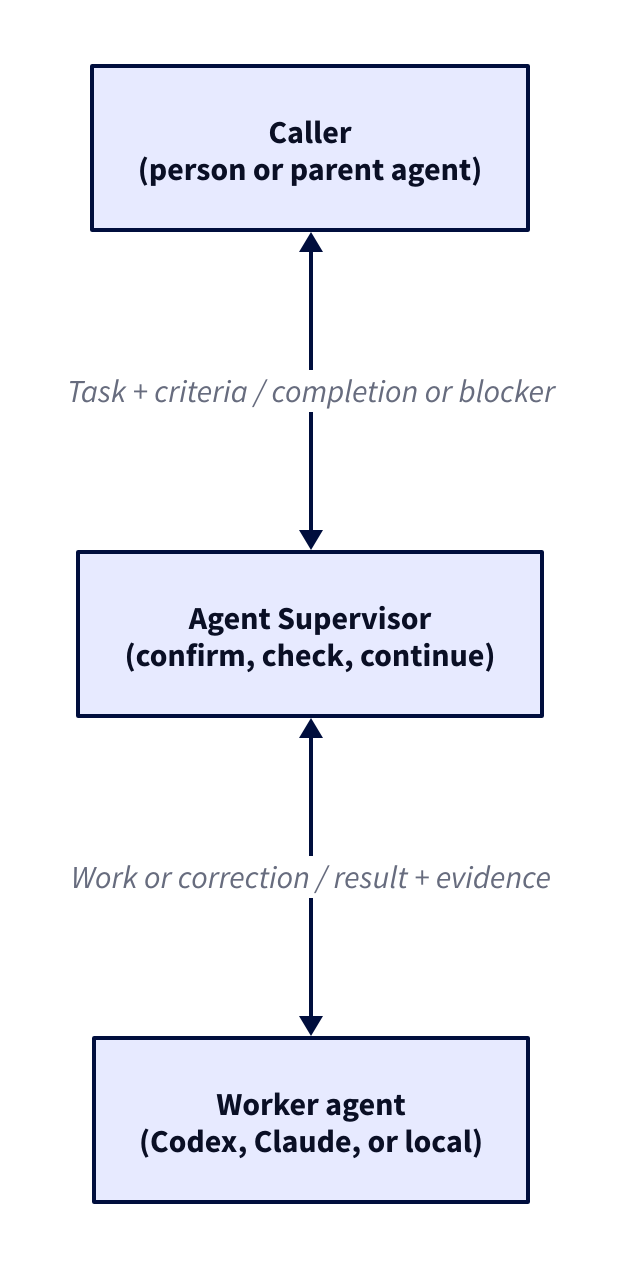
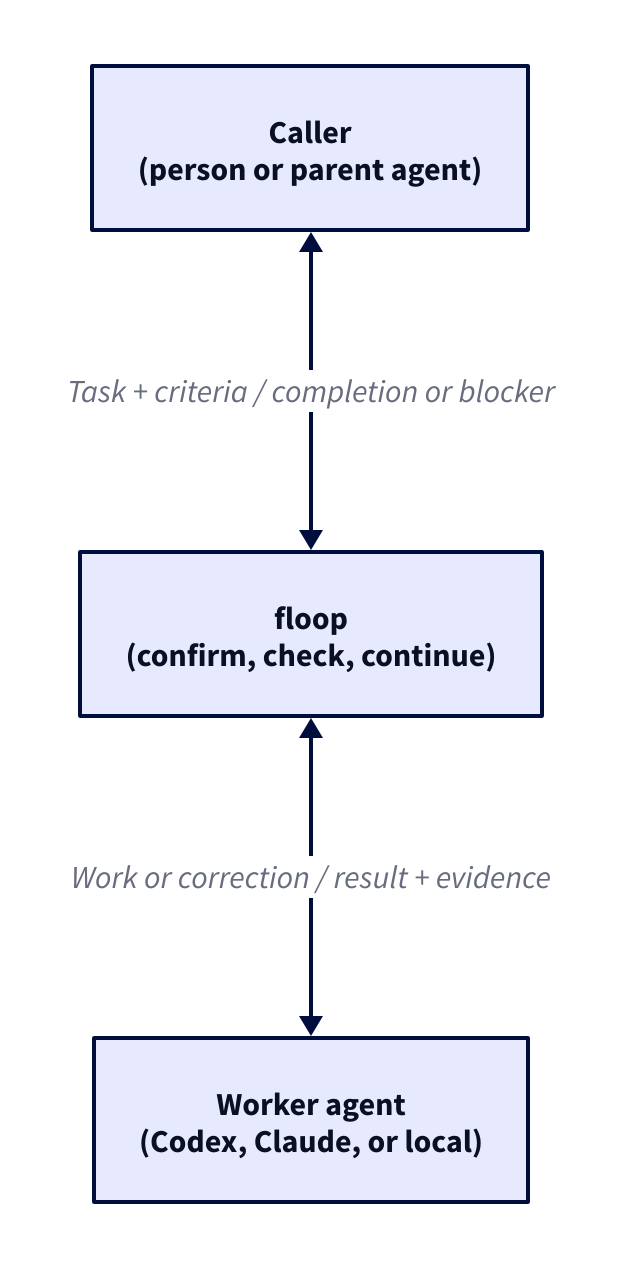
feat: publish floop skill

Changed region(s): [[0.2138, 0.4614, 0.7942, 0.5229], [0.1222, 0.4306, 0.1527, 0.5536]]

diff --git a/README.md b/README.md
@@ -1,17 +1,42 @@
-# Agent Supervisor
+# floop
 
-**Working title.** Agent Supervisor is a control loop for checking an AI agent's completed work against caller-confirmed requirements. It lets a person or parent agent manage the goal while a worker agent handles the work and requested corrections.
+floop is a supplementary Codex skill for closing the acceptance loop on delegated AI work. It helps a caller turn requirements into checkable criteria, review available evidence, request bounded corrections, and report whether the work is complete.
 
-The first implementation is a project-local supplementary skill at [skills/agent-supervisor/SKILL.md](skills/agent-supervisor/SKILL.md). It runs inline by default and can optionally spawn one dedicated supervisor session when the caller requests it and the host supports session control. It does not yet include runtime adapters or an executable monitor.
+floop is an installable skill, not a standalone service. It does not include a runtime adapter, live-session monitor, command-line tool, or persistent run store. The host must provide any session controls and evidence that are available during a run.
 
-## How the skill runs
+## Install
 
-The supervisor resolves requirements from a file, invocation, or caller; confirms them with the caller; observes a connected worker session; and evaluates the result criterion by criterion. It reports completion when all required criteria pass. Failed checks can be sent to the same worker for up to two focused continuation requests by default. Unclear requirements, missing evidence, or exhausted limits return to the caller, which may be a person or another agent.
+Clone floop and link the skill into your user-level Codex skills directory:
+
+```sh
+mkdir -p ~/.local/share
+git clone https://github.com/kobaltoxid/floop.git ~/.local/share/floop
+~/.local/share/floop/scripts/install-user.sh
+```
+
+The installer creates `~/.agents/skills/floop` as a symlink to this checkout. It refuses to replace an existing file, directory, or symlink that points somewhere else. Start a new Codex session after installation.
+
+To install into Claude Code's personal skills directory as well, opt in explicitly:
+
+```sh
+~/.local/share/floop/scripts/install-user.sh --claude
+```
+
+The Claude installation is only a compatible skill link; floop's documented workflow and primary target remain Codex.
+
+## Use
+
+Ask Codex to use the `floop` skill when you want to supervise one delegated task. Provide the task, its acceptance criteria (or a file containing them), and the worker result or session reference that the host exposes. The skill confirms the contract, evaluates each criterion as `pass`, `fail`, or `unknown`, and returns a concise disposition: `complete`, `needs-caller`, or `limit-reached`.
+
+If the host cannot expose a worker session, floop can review artifacts supplied by the caller, but it labels the run `review-only` and never claims to have monitored or continued a live session.
 
 ## Project documents
 
-- [System design](docs/system-design.md) — proposed components, flow, and failure behavior.
-- [Acceptance contract](docs/acceptance-contract.md) — requirement inputs, supervision modes, and pass/fail/unknown outcomes.
-- [Product scope and decisions](docs/rough-shape.md) — initial policy and remaining runtime choices.
+- [System design](docs/system-design.md) — the proposed completion loop and capability limits.
+- [Acceptance contract](docs/acceptance-contract.md) — requirement inputs, outcomes, and continuation policy.
+- [Product scope and decisions](docs/rough-shape.md) — the product boundary and open runtime questions.
+- [Skill definition](skills/floop/SKILL.md) — the workflow loaded by Codex.
 
-The skill can only monitor or continue sessions that the host exposes. When it cannot access a live session, it reports that limitation and can review artifacts supplied by the caller. Runtime adapters and executable monitoring remain future work.
+## License
+
+floop is licensed under the [Apache License, Version 2.0](LICENSE).

diff --git a/docs/rough-shape.md b/docs/rough-shape.md
@@ -2,13 +2,13 @@
 
 ## Product boundary
 
-The supervisor owns the completion loop for a delegated task. A parent orchestrator may choose the worker and assign work; the supervisor resolves the acceptance criteria, checks the result, requests focused corrections, and reports the outcome to its caller.
+floop guides the completion loop for a delegated task. A parent orchestrator may choose the worker and assign work; floop resolves the acceptance criteria, checks the result, requests focused corrections, and reports the outcome to its caller.
 
 The caller may be a person or a parent agent. The worker may run in Codex, Claude, or a local environment, but the first supported runtime has not been selected.
 
 ## Initial implementation
 
-The first artifact is a supplementary Codex skill. It defines the acceptance loop and uses session controls available in the host environment.
+The first release is an installable Codex skill. It defines the acceptance loop and uses session controls available in the host environment.
 
 The skill runs in the calling session by default. If the caller requests separate supervision, it may spawn exactly one dedicated supervisor session with the confirmed contract and a worker session reference. The dedicated session does not spawn another supervisor.
 
@@ -25,6 +25,6 @@ Live observation and continuation depend on the host exposing those capabilities
 
 - Which host APIs provide reliable session identity, completion signals, evidence access, and continuation across Codex, Claude, and local agents?
 - Should a future standalone runtime use a CLI, service, or both?
-- What durable run storage and issue-tracker integrations should follow the skill prototype?
+- What durable run storage and issue-tracker integrations should follow the skill-based release?
 
 The [system design](system-design.md) describes the control loop and its current capability limits.

diff --git a/docs/system-design.md b/docs/system-design.md
@@ -2,13 +2,13 @@
 
 ## Goal and constraints
 
-This design describes a proposed supervisor that checks completed agent work against a caller-confirmed contract and either closes the run or requests a focused continuation.
+This design describes how floop checks completed agent work against a caller-confirmed contract and either closes the run or requests a focused continuation.
 
-- **Reader:** contributors extending the skill prototype and planning runtime adapters.
+- **Reader:** contributors maintaining the skill and planning possible runtime adapters.
 - **Goal:** make task completion evidence-based while keeping the caller at the goal and policy level.
 - **Constraints:** the caller can be a person or a parent agent; worker runtimes differ; continuations must be bounded.
 
-The initial implementation is a supplementary skill. It runs inline by default and can spawn one dedicated supervisor session when requested. Runtime adapters, durable storage, and live session control are not implemented yet.
+The initial release is an installable Codex skill. It runs inline by default and can use one dedicated supervisor session when requested, if the host supports session control. Runtime adapters, durable storage, and live session control are not included.
 
 ## Context and components
 

diff --git a/skills/floop/SKILL.md b/skills/floop/SKILL.md
@@ -1,11 +1,11 @@
 ---
-name: agent-supervisor
-description: "Supervise delegated AI work against caller-confirmed requirements. Review evidence, request bounded corrections, and report completion or unresolved issues. Use when monitoring or verifying another agent's task."
+name: floop
+description: "Close delegated AI work against caller-confirmed requirements. Review supplied evidence, request bounded corrections, and report completion or unresolved issues. Use when verifying another agent's task."
 ---
 
-# Agent Supervisor
+# floop
 
-Close the acceptance loop for one delegated AI task. The caller may be a person or a parent agent. The worker may be a Codex, Claude, or local agent, but you can only control sessions the host exposes.
+Close the acceptance loop for one delegated AI task. The caller may be a person or a parent agent. The worker may be a Codex, Claude, or local agent. floop is only a skill workflow: use session controls and evidence exposed by the host, and do not imply that floop provides a monitor or runtime adapter.
 
 ## Select a supervision mode
 

diff --git a/docs/acceptance-contract.md b/docs/acceptance-contract.md
@@ -1,6 +1,6 @@
 # Acceptance Contract
 
-The acceptance contract is the supervisor's source of truth for deciding whether a run is complete. It should be understandable to the caller, actionable for the worker, and checkable by the verifier.
+floop uses the acceptance contract to decide whether a delegated task is complete. The contract should be understandable to the caller, actionable for the worker, and checkable by the verifier.
 
 ## Requirement resolution
 
